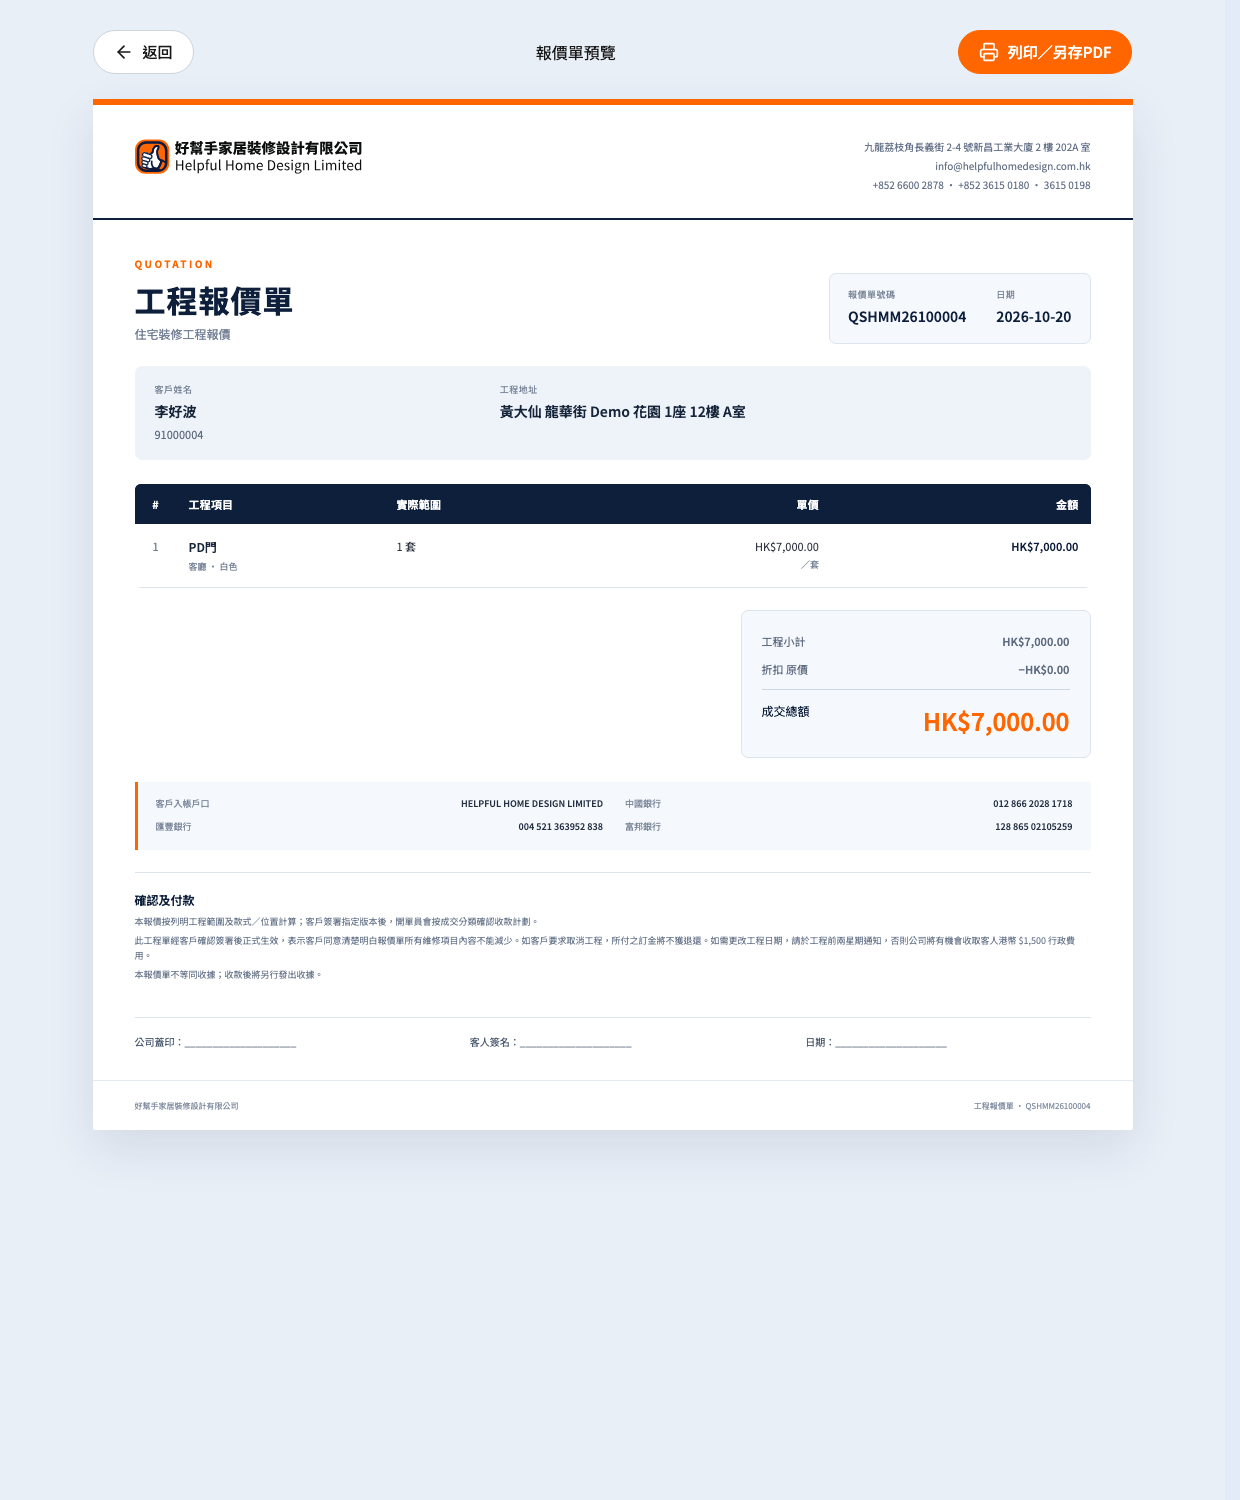
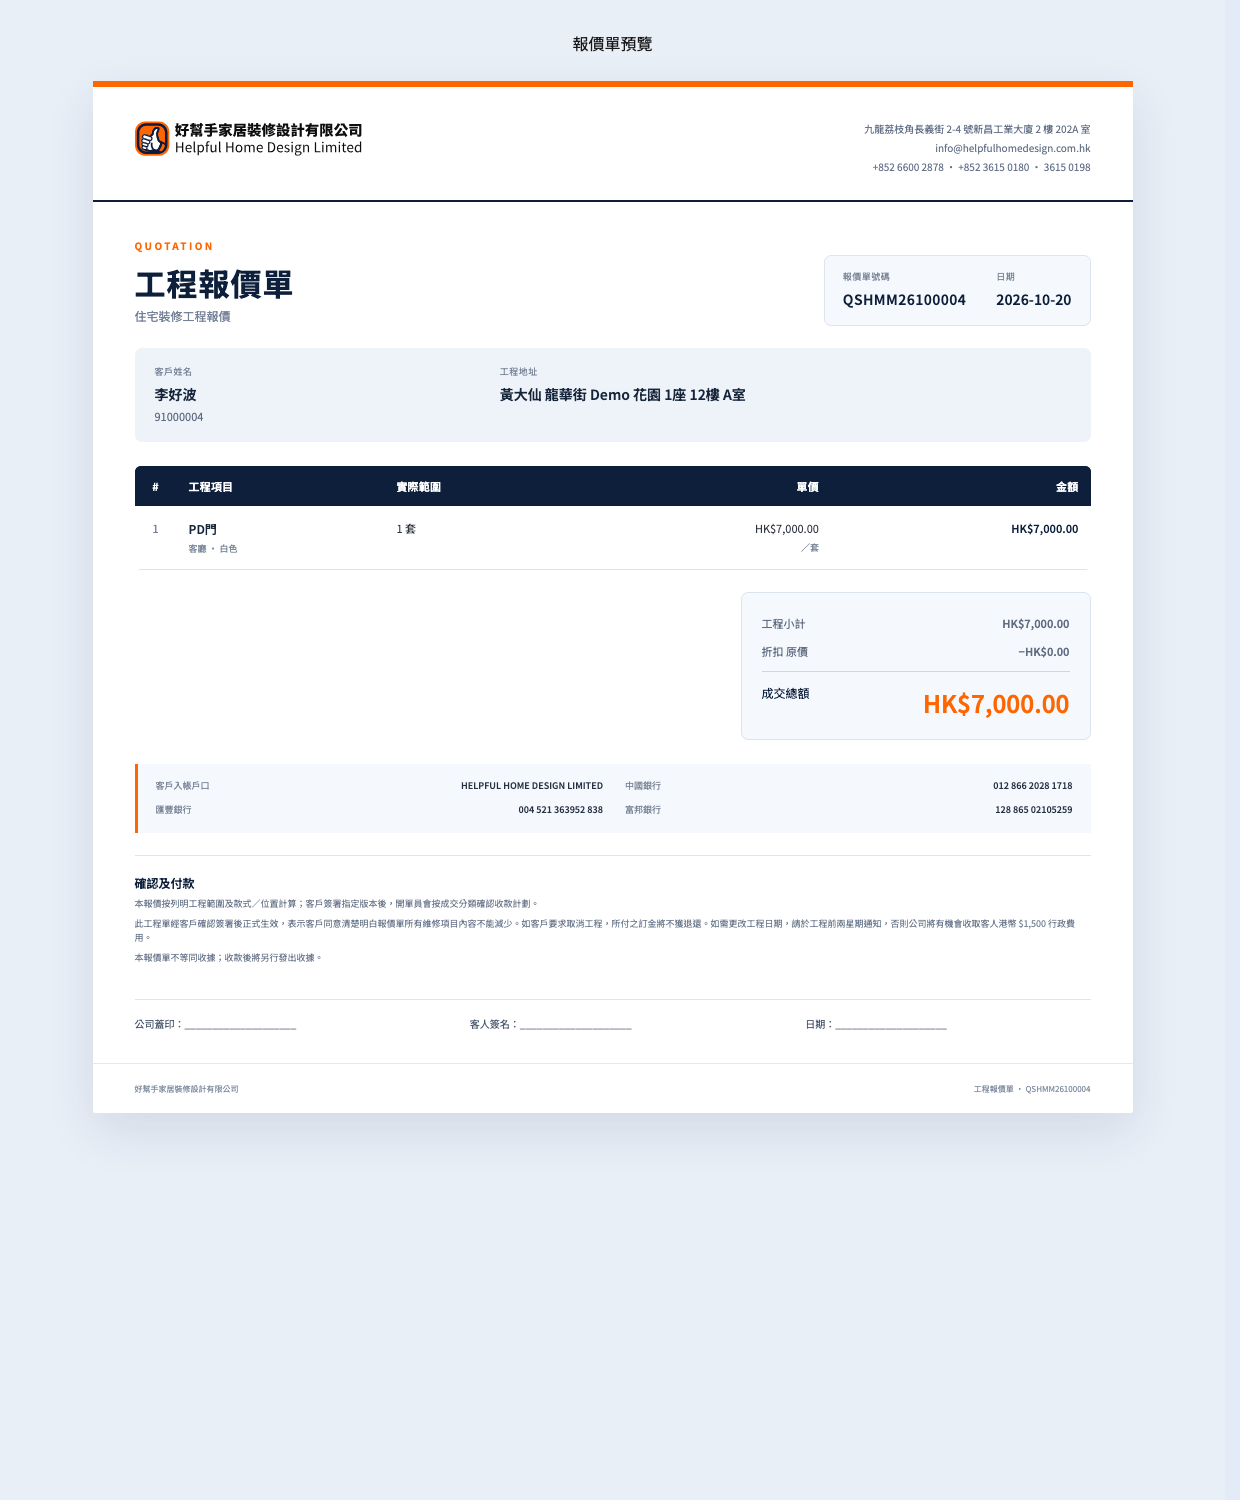
fix(documents): remove quotation preview toolbar actions

diff --git a/src/pages/Documents.tsx b/src/pages/Documents.tsx
@@ -52,11 +52,13 @@ export function Documents() {
       "—";
     return (
       <div className={`document-page ${quote ? "quotation-page" : ""}`}>
-        <div className="document-toolbar">
-          <Button onClick={() => nav(-1)}>
-            <ArrowLeft size={20} />
-            返回
-          </Button>
+        <div className={`document-toolbar ${quote ? "quote-toolbar" : ""}`}>
+          {!quote && (
+            <Button onClick={() => nav(-1)}>
+              <ArrowLeft size={20} />
+              返回
+            </Button>
+          )}
           <span>
             {municipal
               ? "市政單預覽"
@@ -66,10 +68,12 @@ export function Documents() {
                   ? "Invoice預覽"
                   : "報價單預覽"}
           </span>
-          <Button variant="primary" onClick={() => window.print()}>
-            <Printer size={20} />
-            列印／另存PDF
-          </Button>
+          {!quote && (
+            <Button variant="primary" onClick={() => window.print()}>
+              <Printer size={20} />
+              列印／另存PDF
+            </Button>
+          )}
         </div>
         <article className={`document-sheet ${quote ? "quotation-sheet" : ""}`}>
           {quote ? (

diff --git a/tests/e2e/quotation-design.spec.ts b/tests/e2e/quotation-design.spec.ts
@@ -15,4 +15,10 @@ test("報價單使用新 quotation 版面", async ({ page }) => {
   );
   await expect(page.getByText("客戶入帳戶口", { exact: true })).toBeVisible();
   await expect(page.getByText("公司蓋印", { exact: false })).toBeVisible();
+  await expect(
+    page.getByRole("button", { name: "返回", exact: true }),
+  ).toHaveCount(0);
+  await expect(
+    page.getByRole("button", { name: "列印／另存PDF", exact: true }),
+  ).toHaveCount(0);
 });

diff --git a/src/styles.css b/src/styles.css
@@ -10823,3 +10823,7 @@ textarea::placeholder {
     grid-template-columns: 1fr;
   }
 }
+
+.quote-toolbar {
+  justify-content: center;
+}
